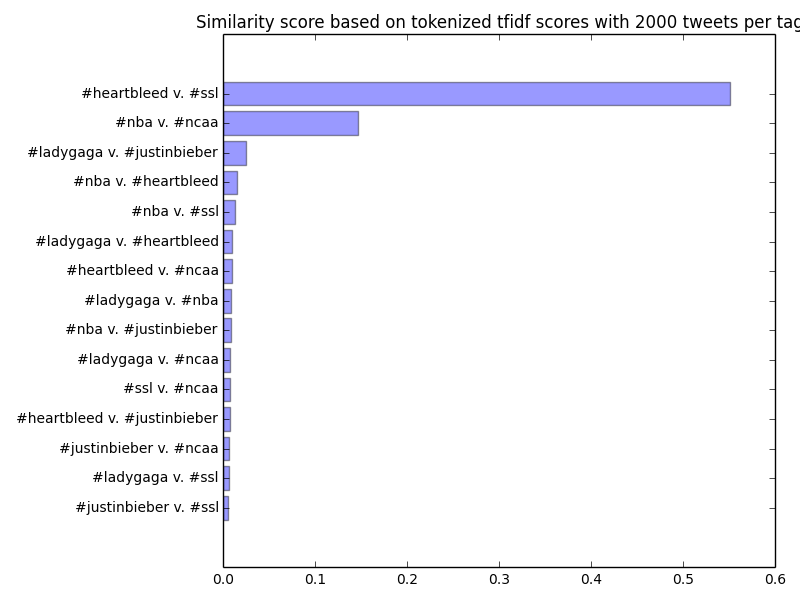
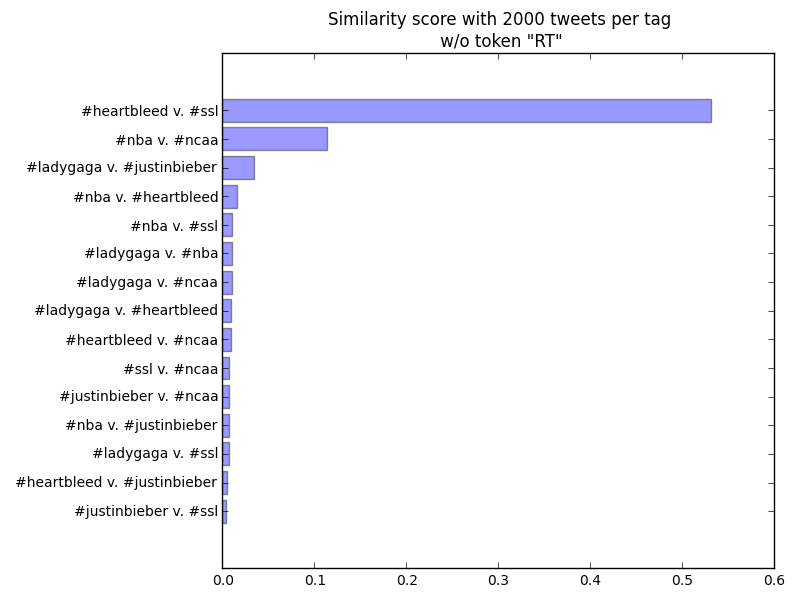
curve plot part 1

Changed region(s): [[0.0, 0.0, 1.0, 0.99]]

diff --git a/computeSimilarity.py b/computeSimilarity.py
@@ -1,5 +1,11 @@
 #!/usr/bin/python
 
+'''
+A script to
+1. compute similarity of pairs of Twitter hashtags
+2. compute most common tokens for 2 documents
+'''
+
 from secrets import *
 from utility import *
 
@@ -32,7 +38,7 @@ def barplot(scores):
     y_pos = np.arange(len(names))
     plt.barh(y_pos, [item[1] for item in scores], align='center', alpha=0.4)
     plt.yticks(y_pos, names)
-    plt.title('Similarity score based on tokenized tfidf scores with %s tweets per tag' % AMOUNT)
+    plt.title('Similarity score with %s tweets per tag\n w/o token "RT"' % AMOUNT)
     plt.tight_layout()
     fig.savefig('hashtag_similarity%s.png' % AMOUNT, bbox_inches=0)
 
@@ -64,8 +70,10 @@ def getTokens(words):
 ## given two docs, compute the similarity
 ## D<w1, w2, ...> and cosine similarity
 def pairwiseSim(doc1, doc2):
+    # get a vector of tfidf of tokens as features
     tfidf = TfidfVectorizer(tokenizer=getTokens, stop_words='english').fit_transform([doc1, doc2])
     # no need to normalize, since Vectorizer will return normalized tf-idf
+    # compute the consine similarity of the 2 tfidf vector by dot multiplication
     pairwise_similarity = tfidf * tfidf.T
     return pairwise_similarity[0,1]
 
@@ -101,7 +109,7 @@ def main_mostCommon(foldername):
     tag_dict = getDocs(foldername)
     tokenized_dict = (( tag, removeStopwords(getTokens(f)) ) for tag, f in tag_dict.iteritems())
     common_words = (( getTagName(tag), Counter(tokens) ) for tag, tokens in tokenized_dict)
-    print "%15s %20s %s" % ('tag name', '# of unique entities', '10 most common entities')
+    print "%15s %20s %s" % ('tag name', '# of unique tokens', '10 most common tokens')
     for tag, common in common_words:
         print "%15s %20d %s" % (tag, len(common), common.most_common(10))
 

diff --git a/getContent.py b/getContent.py
@@ -7,8 +7,9 @@ from requests_oauthlib import OAuth1Session
 from secrets import *
 
 '''
-return a list of hashtags from trending topics
+A script to obtain tweet texts/entities via Twitter API
 '''
+
 TRENDS_URL = 'https://api.twitter.com/1.1/trends/place.json'
 PARAMS = {'language':'en', 'filter_level':'medium', 'id':1}
 SEARCH_URL = 'https://api.twitter.com/1.1/search/tweets.json'
@@ -18,7 +19,7 @@ FILTER_PARAMS = {'language':'en', 'filter_level':'medium'}
 oauth = OAuth1Session(APP_KEY, client_secret=APP_SECRET,
                         resource_owner_key=ACCESS_TOKEN,
                         resource_owner_secret=ACCESS_TOKEN_SECRET)
-AMOUNT = 4000
+AMOUNT = 2000
 
 ## given a list of tweet texts, write tweets into local file
 ## filename is the tag without #
@@ -49,7 +50,7 @@ def getMoreTweets(tag):
             robj = response.json()
             # decode and get tweet text
             tweets = (decode_to_unicode(tweet['text']) for tweet in robj['statuses'])
-            dumpTweets(tag, tweets)
+            dumpTweets(tag, tweets, "tweets%d" % AMOUNT)
             ids = (int(tweet.get('id')) for tweet in robj['statuses'])
             # keep track of max_id to avoid repeat task
             SEARCH_KEYS['max_id'] = min(ids) - 1
@@ -128,7 +129,8 @@ def getTags():
 def main():
     #getTags()
     for line in open("tags.txt", "r"):
-        getMoreEntities(line.rstrip())
+        #getMoreEntities(line.rstrip())
+        getMoreTweets(line.rstrip())
 
 if __name__ == '__main__':
     main()

diff --git a/chooseN.py b/chooseN.py
@@ -1,0 +1,49 @@
+#!/usr/bin/python
+
+'''
+A script to plot
+1. # of tweets vs. # of unique tokens
+'''
+
+from secrets import *
+from utility import *
+from computeSimilarity import getTokens, removeStopwords
+
+import sys
+import os
+from collections import Counter
+import itertools
+import string
+
+import matplotlib.pyplot as plt; plt.rcdefaults()
+import numpy as np
+import matplotlib.pyplot as plt
+
+TAGS = ["heartbleed", "ssl", "ladygaga", "justinbieber"]
+TEST = ['ssl']
+
+def getIncreasingNumOfTokens(filepath):
+    num_tokens_steps = {0:0}
+    steps = (i*100 for i in xrange(20))
+    # read lines from the file according to the step
+    for i in steps:
+        with open(filepath) as ftweet:
+            lines = [ftweet.next().lower().translate(None, string.punctuation) for x in xrange(i)]
+            num_tokens_steps[i] = len(Counter(removeStopwords(getTokens(''.join(lines)))))
+    return num_tokens_steps
+
+## for all the tags
+## compute the increasing curve of # of tokens v. # of tweets
+## the generate the curve plot
+def main(foldername):
+    unique_tokens = {}
+    for tag in TAGS:
+        unique_tokens[tag] = getIncreasingNumOfTokens("%s/%s.txt" % (foldername, tag))
+    print unique_tokens
+
+if __name__ == '__main__':
+    if len(sys.argv) != 2:
+        print "Duuuuuuuuuugh!!!"
+        print "Usage: python script.py foldername"
+        sys.exit(0)
+    main(sys.argv[1])

diff --git a/utility.py b/utility.py
@@ -1,3 +1,7 @@
+'''
+A set of utility functions
+'''
+
 import os
 
 ## to decode incoming tweet

diff --git a/README.md b/README.md
@@ -17,6 +17,8 @@ A program to compute similarity of two ~~documents~~ hashtags in Twitter
 - ~~compute similarity of 2 hashtags based on only entities in received tweets?~~ 0411
 - how is the uniqueness of entities change along the increase of amount of tweets for each tag?
 - for the unstable pair `#ladygaga v. #justinbieber`, compute curve `# of tweets x similarity score`
+- test similar hashtags like `#boob` and `#boobs`
+- ngrams?
 
 #### 0408 11-12pm
 
@@ -121,13 +123,13 @@ Apparently I have met the cap of twitter API after pulling several times of 2000
 
 As weird result found from my similarity calculator, I first computed the 10 most common tokens of tweets for each hashtag:
 
-
-         ladygaga [('ladygaga', 1075), ('rt', 432), ('gaga', 288), ('ladi', 187), ('artpop', 173), ('guy', 109), ('roseland', 102), ('littlemonst', 94), ('love', 76), ('thi', 73)]
-              nba [('nba', 1040), ('rt', 506), ('lebron', 233), ('game', 232), ('ha', 213), ('amp', 197), ('plumle', 196), ('mason', 191), ('de', 191), ('break', 189)]
-       heartbleed [('heartble', 1008), ('rt', 472), ('password', 233), ('chang', 184), ('bug', 164), ('secur', 96), ('de', 94), ('vulner', 93), ('need', 92), ('openssl', 89)]
-     justinbieber [('justinbieb', 1120), ('rt', 300), ('justin', 192), ('bieber', 170), ('\xf0\x9f\x98\x8d', 162), ('belieb', 146), ('believeangelss', 135), ('httpstcotvzzxcyyj6', 120), ('confid', 84), ('escuchayvota', 81)]
-              ssl [('ssl', 994), ('heartble', 603), ('rt', 317), ('secur', 237), ('openssl', 189), ('bug', 169), ('de', 113), ('password', 98), ('vulner', 96), ('internet', 67)]
-             ncaa [('ncaa', 1012), ('rt', 285), ('basketbal', 207), ('uconn', 202), ('nba', 150), ('gordon', 120), ('mlb', 119), ('derrick', 113), ('player', 105), ('xnxx', 92)]
+       tag name   # of unique tokens 10 most common tokens
+       ladygaga                 4713 [('ladygaga', 2189), ('rt', 846), ('gaga', 578), ('ladi', 399), ('roseland', 262), ('artpop', 251), ('guy', 214), ('littlemonst', 206), ('love', 144), ('de', 142)]
+            nba                 4653 [('nba', 2080), ('rt', 1102), ('game', 665), ('lebron', 654), ('ha', 610), ('plumle', 595), ('mason', 585), ('break', 569), ('suspend', 568), ('amp', 560)]
+     heartbleed                 4595 [('heartble', 2016), ('rt', 1066), ('bug', 380), ('password', 379), ('nsa', 346), ('chang', 299), ('secur', 253), ('year', 239), ('vulner', 203), ('site', 193)]
+   justinbieber                 4299 [('justinbieb', 2184), ('rt', 491), ('belieb', 489), ('justin', 439), ('bieber', 379), ('love', 241), ('follow', 167), ('believemovi', 143), ('im', 143), ('pleas', 141)]
+            ssl                 5840 [('ssl', 1930), ('heartble', 1133), ('rt', 573), ('secur', 375), ('openssl', 300), ('bug', 286), ('de', 189), ('vulner', 154), ('internet', 140), ('password', 140)]
+           ncaa                 4563 [('ncaa', 2028), ('uconn', 841), ('rt', 522), ('basketbal', 365), ('women', 358), ('nba', 237), ('mlb', 205), ('huski', 193), ('championship', 179), ('xnxx', 177)]
 
 Now one thing very obvious is all hashtags contain many `rt`, which is predictable. The thing is whether we need to keep it when we compute the similarity. On one hand, it inceases the similarity of any pair as they all have a large amount of `rt`; on the other hand, I am wondering if the amount of `rt` could be a metric for hashtag similarity: similar hashtag should have similar amount of `rt`? To compare, I computed 2000tweets similarity again with `rt` removed.
 
@@ -142,3 +144,19 @@ When I fecth entities apparently I hit the cap of Twitter API again because I in
      heartbleed                  558 [('heartble', 4017), ('nsa', 628), ('openssl', 117), ('secur', 89), ('break', 57), ('hilari', 51), ('cybersecur', 50), ('xkcd', 49), ('ssl', 46), ('infosec', 37)]
 
 We could see these two differ more compared with the same 10 most common tokens in previous analysis for the same 2 tags. I also added the total number of unique entities for each tag for reference. I cannot make much sense for now but I suspect that it has lower score because by only comparing entities we remove tokens occured in both tags but are not entities. However, given entities should be a tightened information of each tweet, I am not sure why the performance here is not good. One possibility is I have to yet increase the amount of entities to discover the true pattern of entities of each tweet.
+
+### 0412
+
+My similarity calculator revisited:
+
+- target object: 2 hashtags
+- features: texts _or_ entities of **n** tweets containing the hashtags
+- metric: consine similarity of 2 vectors of TFIDF score of tokenized texts
+
+The choice of **n**
+
+For either texts and entities I have to decide how many of them I want to obtain for each hashtag to best the performance. My intuition is:
+
+    More tweets (texts/entities) -> more unique tokens per tag -> more representative the doc is for the tag -> similarity score is more accurate
+
+However, I suspect there should be a converge point, at which increasing the number of tweets will not result in a propotional increase in either number of tokens or the level of representativeness. To find out if the point exists, I computed a curve of _number of tweets_ x _number of unique tokens_.
